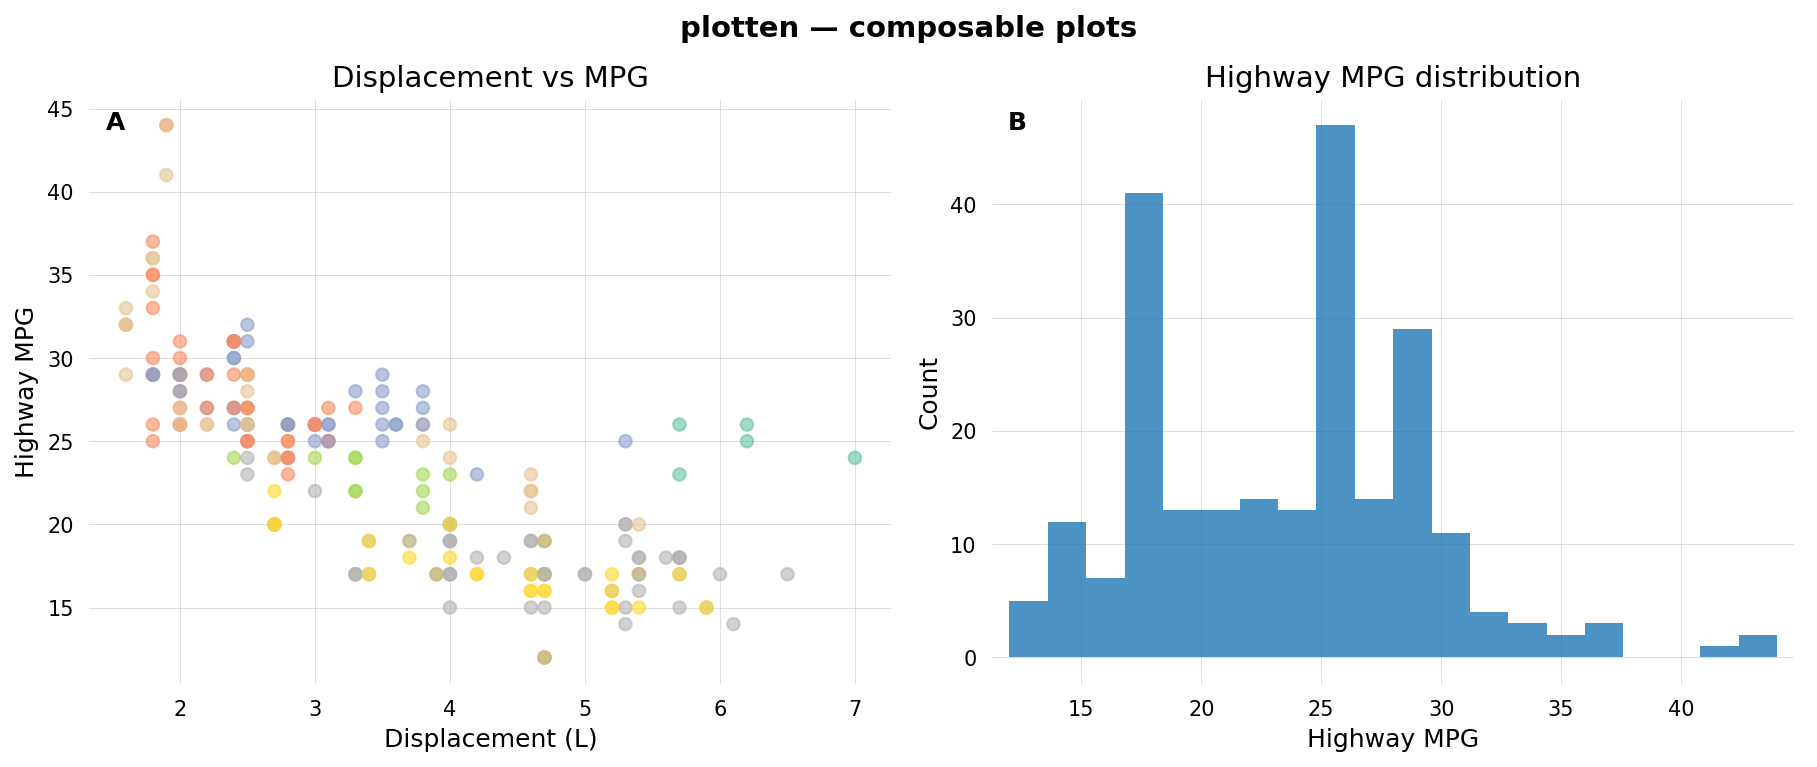
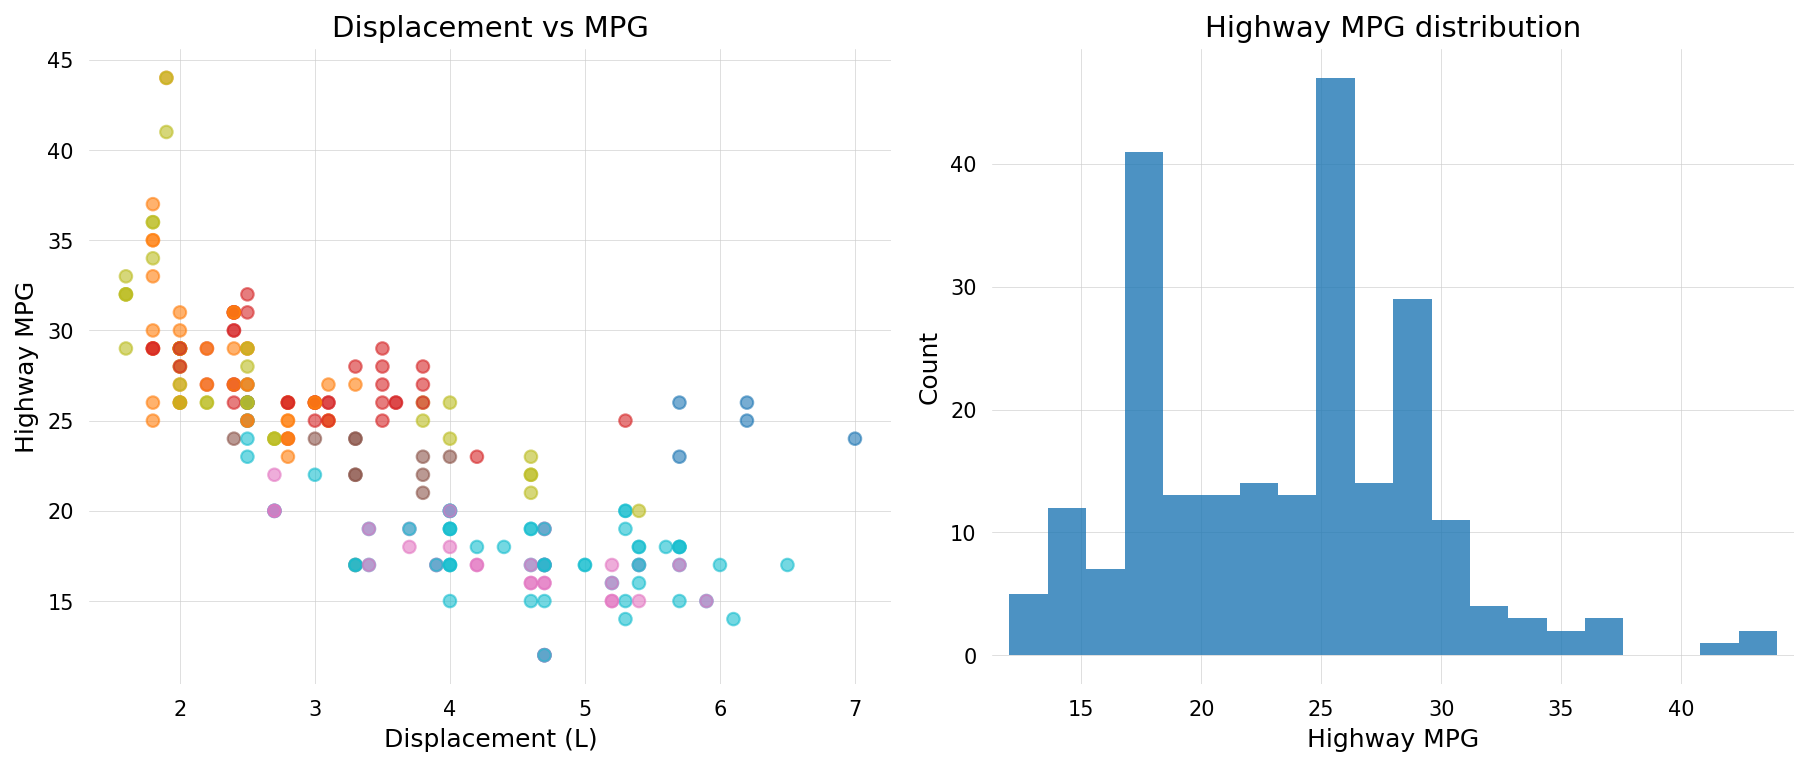
docs: align README examples with rendered images
- Hero: add subtitle and caption to labs() to showcase the full API
- Label repel: switch image generation from geom_label_repel to geom_text_repel to match the README snippet
- Faceted scatter: use mpg data with aes(color="drv") and method="loess", matching the README exactly; remove the synthetic study-hours dataset
- Ridge plot: drop the fill aesthetic (not supported by geom_density_ridges) and the non-existent scale_fill_viridis(discrete=True) from both README and script
- Composition: remove scale_color_brewer and plot_annotation from the image script to keep it minimal

diff --git a/docs/generate_readme_images.py b/docs/generate_readme_images.py
@@ -15,15 +15,11 @@ from plotten import (
     facet_wrap,
     geom_density_ridges,
     geom_histogram,
-    geom_label_repel,
     geom_point,
     geom_smooth,
     geom_text_repel,
     ggplot,
     labs,
-    plot_annotation,
-    scale_color_brewer,
-    theme,
     theme_bw,
     theme_minimal,
 )
@@ -39,12 +35,12 @@ hero = (
     ggplot(mpg, aes(x="displ", y="hwy", color="class"))
     + geom_point(alpha=0.7)
     + geom_smooth(method="ols")
-    + scale_color_brewer(palette="Set2")
     + labs(
         title="Engine displacement vs. highway MPG",
+        subtitle="Seven vehicle classes, model years 1999–2008",
+        caption="Source: ggplot2::mpg",
         x="Displacement (L)",
         y="Highway MPG",
-        color="Vehicle class",
     )
     + theme_minimal()
 )
@@ -63,12 +59,11 @@ repel_df = pl.DataFrame(
 )
 
 repel = (
-    ggplot(repel_df, aes(x="x", y="y"))
+    ggplot(repel_df, aes(x="x", y="y", label="name"))
     + geom_point(size=30, color="#2c3e50")
-    + geom_label_repel(label="name", fill="lightyellow", color="#34495e",
-                       size=8, segment_color="#95a5a6")
+    + geom_text_repel()
     + theme_minimal()
-    + labs(title="geom_label_repel — boxed labels with connectors", x="X", y="Y")
+    + labs(title="geom_text_repel — automatic label placement", x="X", y="Y")
 )
 repel.save(f"{OUT}/label_repel.png", width=6, height=4, dpi=150)
 print(f"Saved {OUT}/label_repel.png")
@@ -94,31 +89,12 @@ print(f"Saved {OUT}/computed_aesthetics.png")
 
 # ── Faceted scatter ───────────────────────────────────────────────────────────
 
-study_df = pl.DataFrame(
-    {
-        "study_hours": [1, 2, 3, 4, 5, 6, 7, 8] * 3,
-        "score": [
-            45, 52, 58, 65, 70, 78, 82, 90,
-            50, 55, 62, 68, 75, 80, 88, 95,
-            40, 48, 55, 60, 64, 72, 76, 85,
-        ],
-        "subject": ["Math"] * 8 + ["Science"] * 8 + ["English"] * 8,
-    }
-)
-
 faceted = (
-    ggplot(study_df, aes(x="study_hours", y="score"))
-    + geom_point(size=40, alpha=0.7)
-    + geom_smooth(method="ols", se=True)
-    + facet_wrap("subject", ncol=3)
+    ggplot(mpg, aes(x="displ", y="hwy"))
+    + geom_point(mapping=aes(color="drv"), alpha=0.6)
+    + geom_smooth(method="loess")
+    + facet_wrap("class", ncol=3)
     + theme_bw()
-    + theme(strip_background="#E8EAF6", strip_text_color="#283593")
-    + labs(
-        title="Study hours vs. test scores",
-        subtitle="Faceted by subject",
-        x="Hours studied per day",
-        y="Test score",
-    )
 )
 faceted.save(f"{OUT}/faceted_scatter.png", width=9, height=7, dpi=150)
 print(f"Saved {OUT}/faceted_scatter.png")
@@ -127,15 +103,8 @@ print(f"Saved {OUT}/faceted_scatter.png")
 
 ridge = (
     ggplot(mpg, aes(x="hwy", y="class"))
-    + geom_density_ridges(alpha=0.7, fill="#4C72B0")
-    + labs(
-        title="Highway MPG by vehicle class",
-        subtitle="Ridge plot — one distribution per class",
-        x="Highway MPG",
-        y=None,
-    )
+    + geom_density_ridges(alpha=0.8)
     + theme_minimal()
-    + theme(axis_text_y_size=11)
 )
 ridge.save(f"{OUT}/ridge_plot.png", width=8, height=5, dpi=150)
 print(f"Saved {OUT}/ridge_plot.png")
@@ -145,7 +114,6 @@ print(f"Saved {OUT}/ridge_plot.png")
 p1 = (
     ggplot(mpg, aes(x="displ", y="hwy", color="class"))
     + geom_point(alpha=0.6)
-    + scale_color_brewer(palette="Set2")
     + labs(title="Displacement vs MPG", x="Displacement (L)", y="Highway MPG")
     + theme_minimal()
 )
@@ -157,9 +125,6 @@ p2 = (
     + theme_minimal()
 )
 
-composition = (p1 | p2) + plot_annotation(
-    title="plotten — composable plots",
-    tag_levels="A",
-)
+composition = p1 | p2
 composition.save(f"{OUT}/composition.png", width=12, height=5, dpi=150)
 print(f"Saved {OUT}/composition.png")

diff --git a/README.md b/README.md
@@ -15,7 +15,13 @@ mpg = load_dataset("mpg")
     ggplot(mpg, aes(x="displ", y="hwy", color="class"))
     + geom_point(alpha=0.7)
     + geom_smooth(method="ols")
-    + labs(title="Engine displacement vs. highway MPG", x="Displacement (L)", y="Highway MPG")
+    + labs(
+        title="Engine displacement vs. highway MPG",
+        subtitle="Seven vehicle classes, model years 1999–2008",
+        caption="Source: ggplot2::mpg",
+        x="Displacement (L)",
+        y="Highway MPG",
+    )
     + theme_minimal()
 )
 ```
@@ -202,15 +208,14 @@ mpg = load_dataset("mpg")
 **Ridge plot**
 
 ```python
-from plotten import ggplot, aes, geom_density_ridges, scale_fill_viridis, theme_minimal
+from plotten import ggplot, aes, geom_density_ridges, theme_minimal
 from plotten.datasets import load_dataset
 
 mpg = load_dataset("mpg")
 
 (
-    ggplot(mpg, aes(x="hwy", y="class", fill="class"))
+    ggplot(mpg, aes(x="hwy", y="class"))
     + geom_density_ridges(alpha=0.8)
-    + scale_fill_viridis(discrete=True)
     + theme_minimal()
 )
 ```
